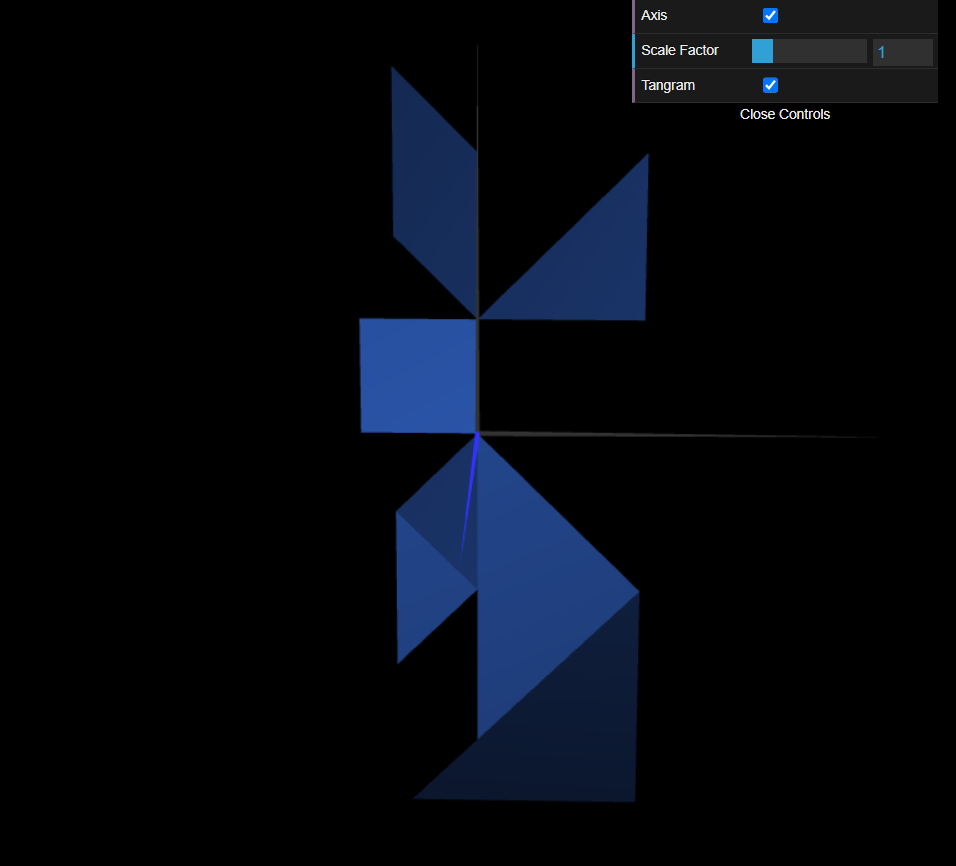
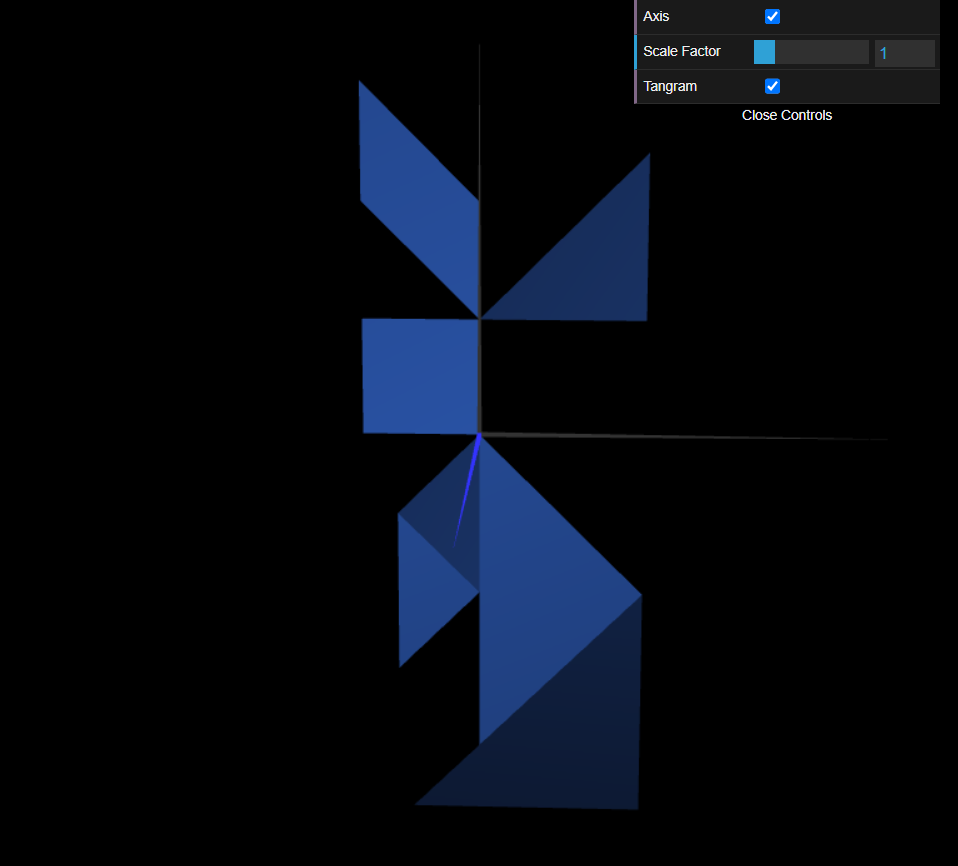
fix(tp2): fix tangram

diff --git a/tp2/objects/MyTangram.js b/tp2/objects/MyTangram.js
@@ -48,7 +48,8 @@ export class MyTangram extends CGFobject {
         // display the parallelogram
         this.scene.pushMatrix();
         this.scene.translate(0, Math.sqrt(2), 0);
-        this.scene.rotate(Math.PI / 2, 0, 0, 1);
+        this.scene.scale(-1, 1, 1);
+        this.scene.rotate(Math.PI / 4, 0, 0, 1);
         this.parallelogram.display();
         this.scene.popMatrix();
 
